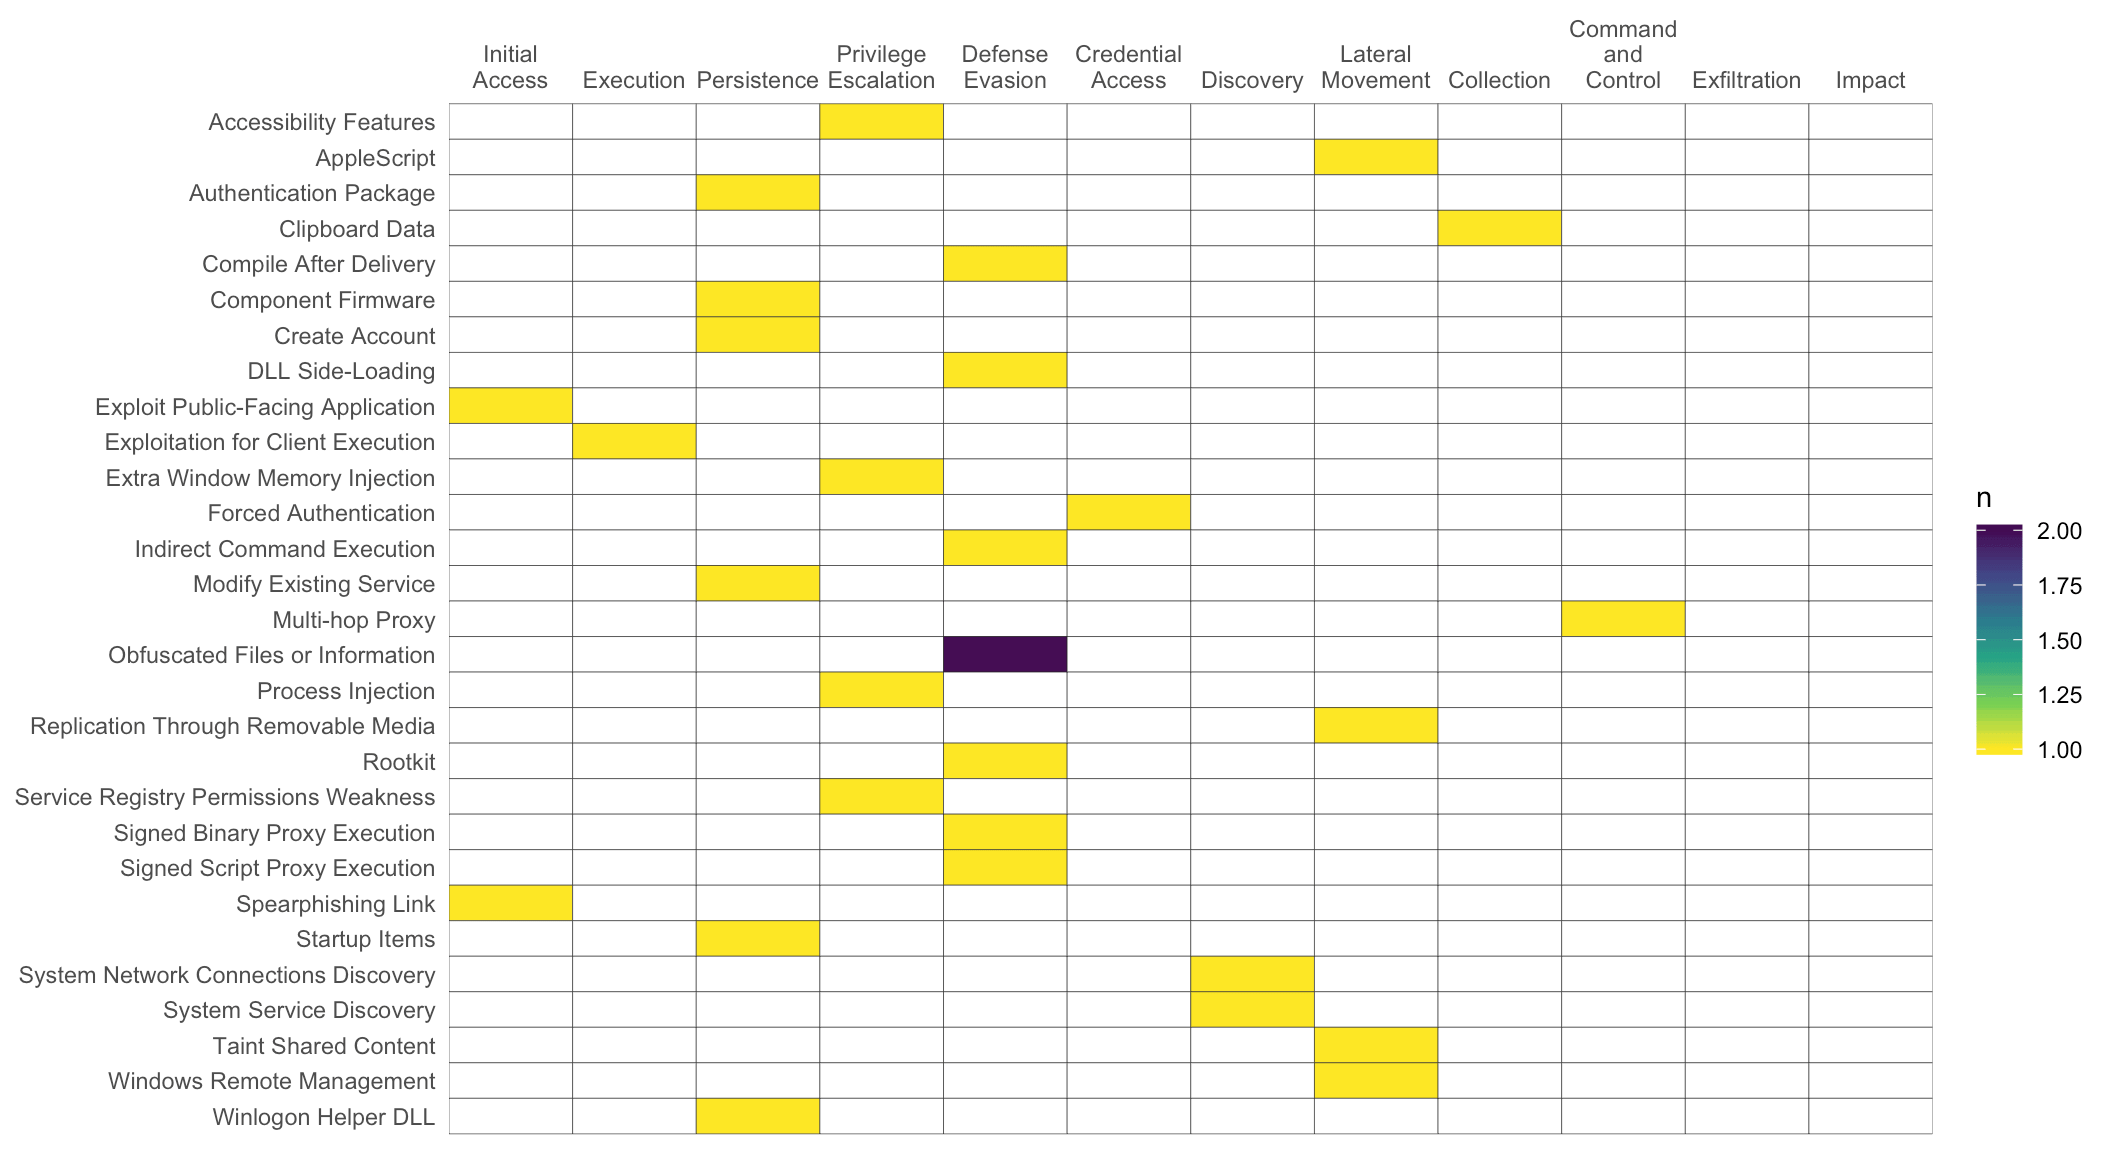
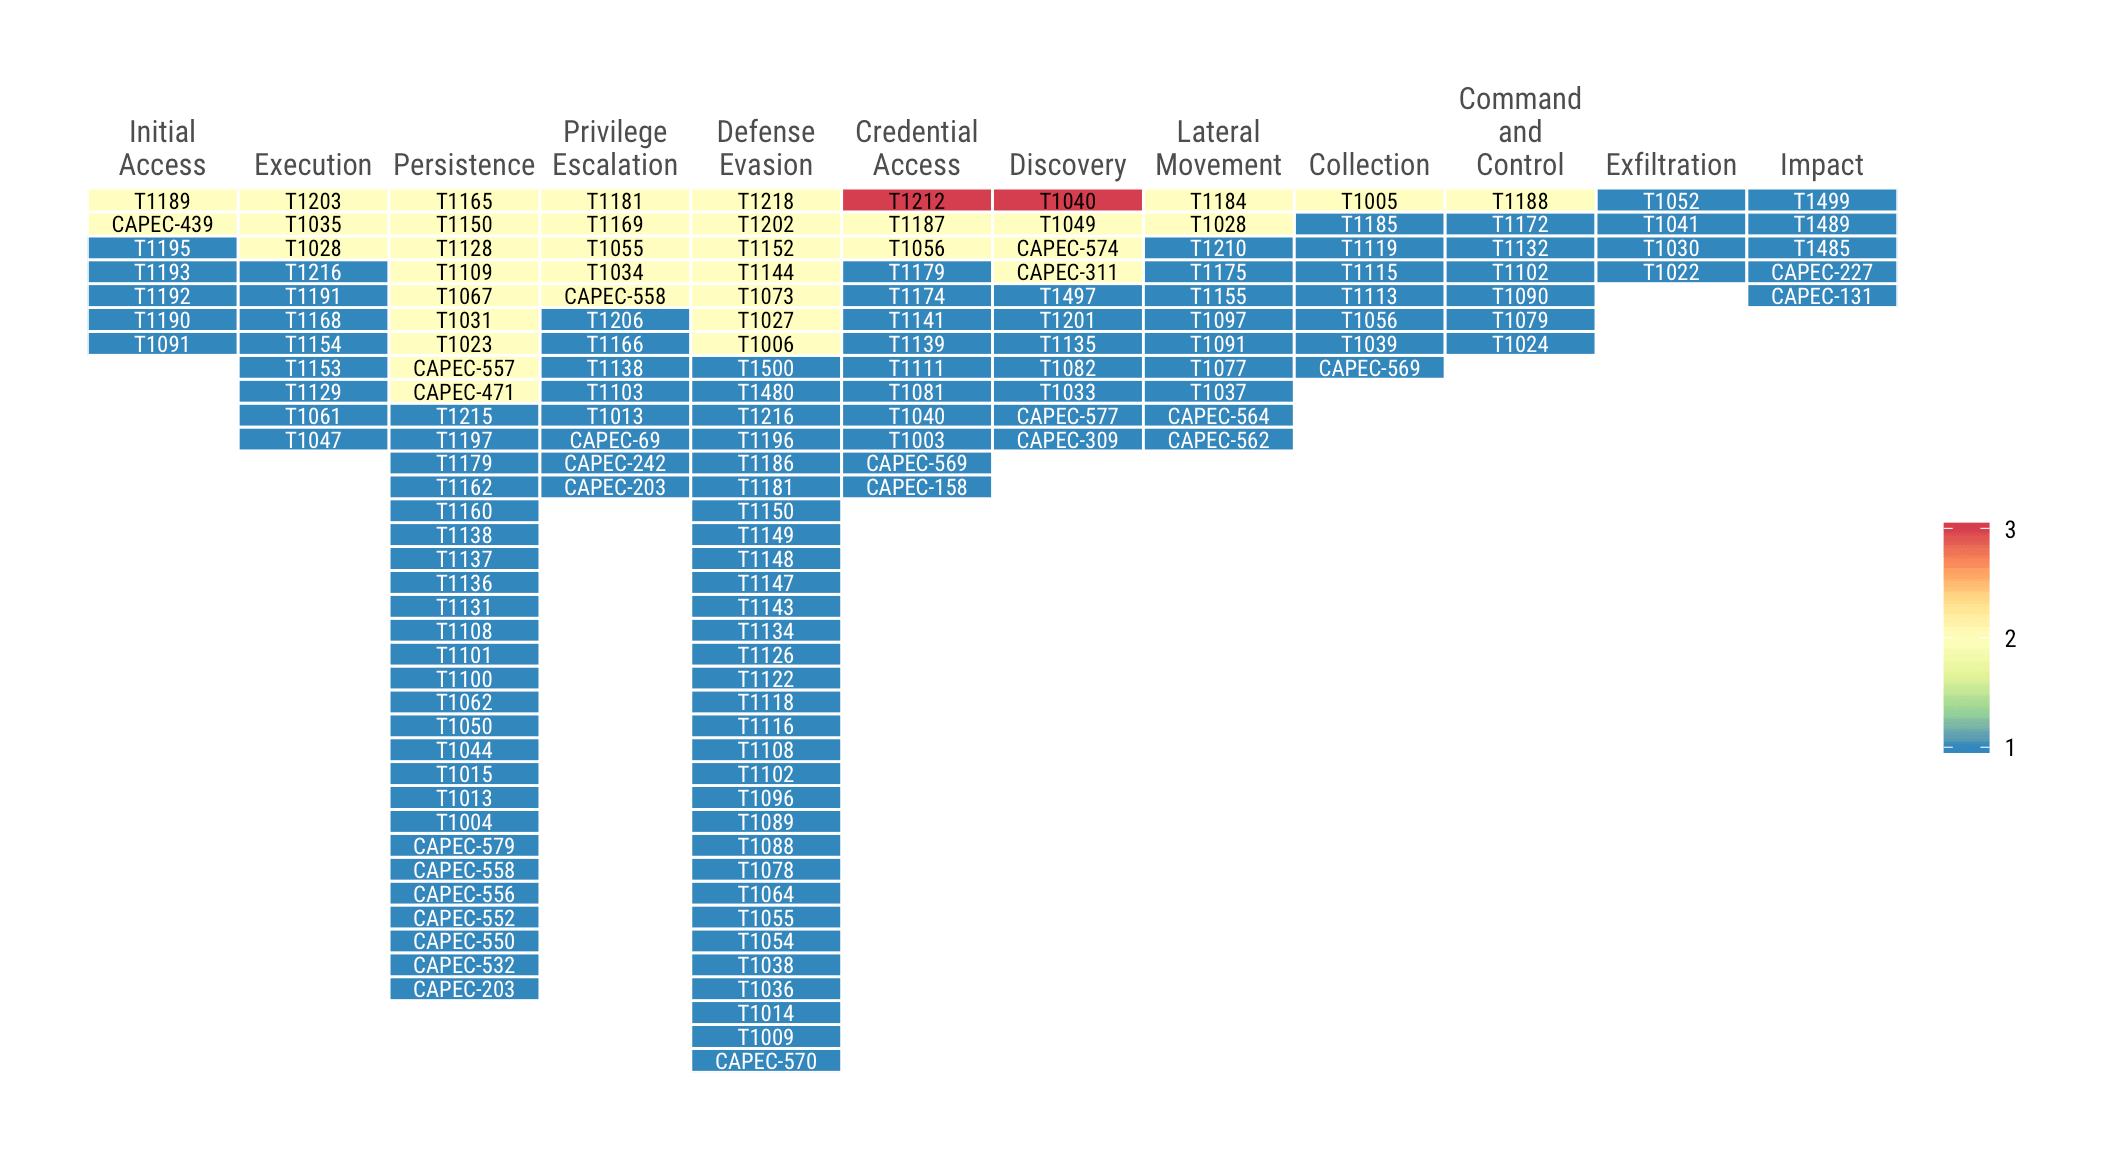
attck_map()

diff --git a/README.md b/README.md
@@ -32,6 +32,7 @@ CTI Corpus.
 
 The following functions are implemented:
 
+  - `attck_map`: Generate an ATT\&CK heatmap
   - `enterprise_attack`: Enterprise Attack Taxonomy v2.0
   - `fct_tactic`: Make an ordered Tactics factor with optional better
     labelling
@@ -81,6 +82,7 @@ NOTE: To use the ‘remotes’ install options you will need to have the
 
 ``` r
 library(attckr)
+library(hrbrthemes)
 library(tidyverse)
 
 # current version
@@ -123,24 +125,17 @@ events <- read_events(system.file("extdat/sample-incidents.csv.gz", package = "a
 ## You appear to be using Tactic ids.
 ## You appear to be using Techinque ids.
 
-count(head(events, 30), tactic, technique) %>%
-  mutate(tactic = fct_tactic(tactic, "pretty", "nl")) %>%
-  left_join(
-    filter(tidy_attack, matrix == "mitre-attack") %>%
-      distinct(id, technique),
-    c("technique" = "id")
-  ) %>%
-  complete(tactic, technique.y) %>%
-  mutate(technique.y = factor(technique.y, rev(sort(unique(technique.y))))) %>%
-  ggplot(aes(tactic, technique.y)) +
-  geom_tile(aes(fill = n), color = "#2b2b2b", size = 0.125) +
-  scale_x_discrete(expand = c(0, 0), position = "top") +
-  scale_fill_viridis_c(direction = -1, na.value = "white") +
-  labs(
-    x = NULL, y = NULL
+attck_map(
+  events, "pretty", "nl", "enterprise",
+  dark_value_threshold = 1,
+  size = 3, family = font_rc, lineheight = 0.875
+) +
+  scale_fill_distiller(
+    palette = "Spectral", na.value = "white", label = scales::comma, breaks = 1:3
   ) +
-  theme_minimal() +
-  theme(panel.grid=element_blank())
+  labs(x = NULL, y = NULL, fill = NULL) +
+  theme_ipsum_rc(grid="") +
+  theme(axis.text.y = element_blank())
 ```
 
 <img src="man/figures/README-events-1.png" width="1056" />
@@ -149,8 +144,8 @@ count(head(events, 30), tactic, technique) %>%
 
 | Lang | \# Files |  (%) | LoC |  (%) | Blank lines |  (%) | \# Lines |  (%) |
 | :--- | -------: | ---: | --: | ---: | ----------: | ---: | -------: | ---: |
-| R    |       10 | 0.91 | 203 | 0.86 |          57 | 0.74 |      144 | 0.81 |
-| Rmd  |        1 | 0.09 |  32 | 0.14 |          20 | 0.26 |       34 | 0.19 |
+| R    |       11 | 0.92 | 245 | 0.91 |          65 | 0.76 |      166 | 0.83 |
+| Rmd  |        1 | 0.08 |  24 | 0.09 |          20 | 0.24 |       34 | 0.17 |
 
 ## Code of Conduct
 
